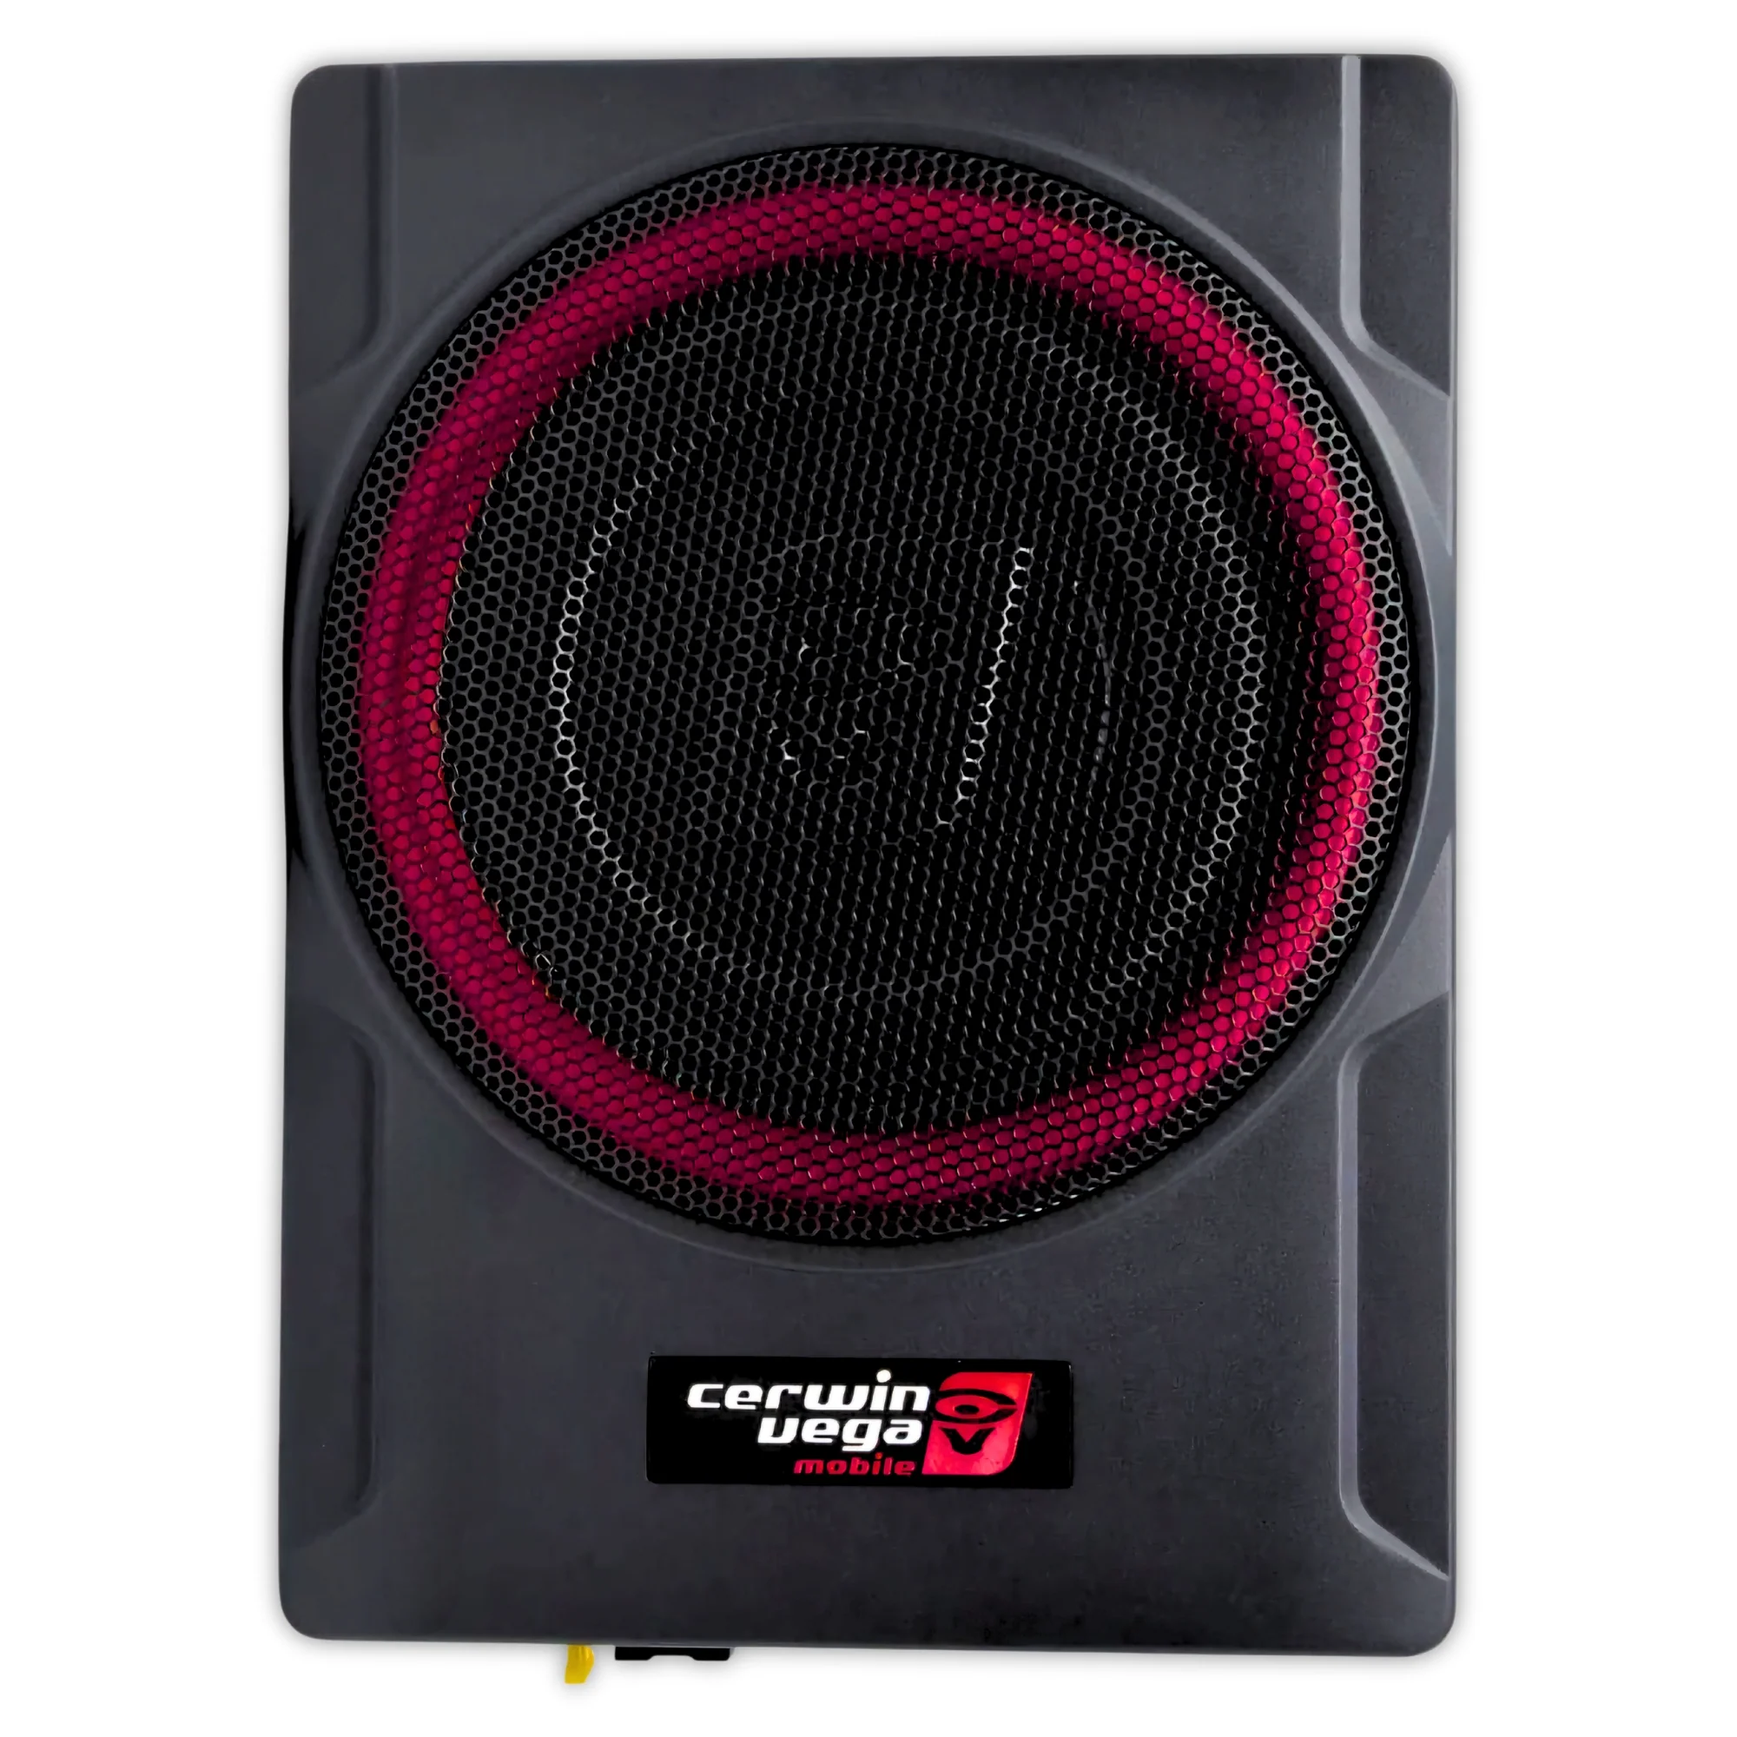
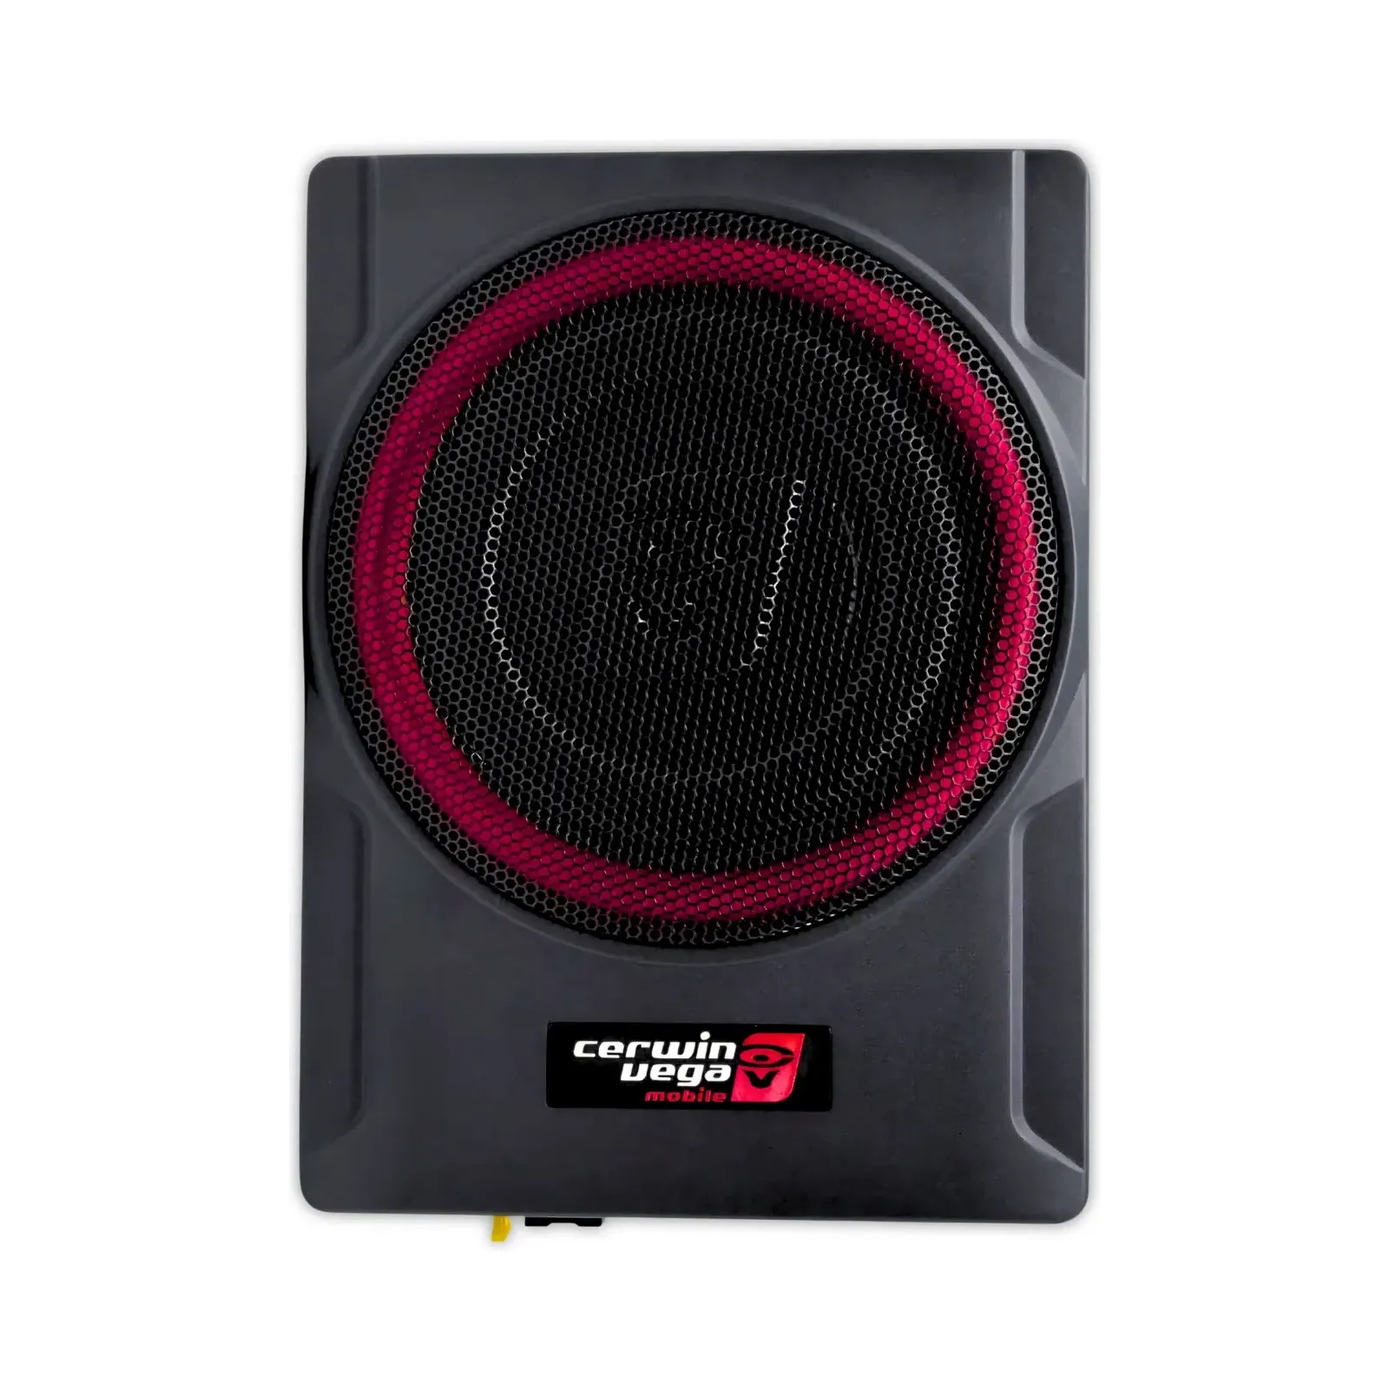
fix(catalogo): una sola escala de foto para bocinas y subwoofers, sin escala en componentes
La escala de la foto en la tarjeta tenia una curva por categoria: una bocina
de 6.5" (95 %) se veia mucho mas grande que un subwoofer de 6.5" (80 %). Ahora
es una sola curva, la del subwoofer extendida hacia abajo (tweeters 55-65 %,
4" 70 %, 5.25" 75 %, 6.5" 80 %, 8" 85 %, 10" 90 %, 12" 95 %, 15" 100 %). Los
componentes (componentes-2v y componentes-3v) no llevan escala: su foto
principal es el juego entero.

VR10_frontal ocupaba el 95 % del alto del cuadro (la regla es 80 %) y se veia
mas grande que la VPAS12: se reencuadro a 1600x1600 con el producto al 80 %,
se subio a Blob y se regenero el catalogo.

diff --git a/lib/catalog/escala-foto.ts b/lib/catalog/escala-foto.ts
@@ -5,40 +5,41 @@
 // tamaño en pantalla acompaña al real. 1 es «el tamaño actual» y es el techo:
 // nada se agranda.
 //
-// Es un dato derivado de `categoria` y `atributos.medida`; no vive en
-// catalog.json. El adaptador estático lo agrega a cada producto al leerlo
-// (`escalaFoto`), y de ahí llega a la tarjeta de los listados, de /buscar y del
-// selector de vehículos. La ficha y su galería NO la usan: ahí la foto va
-// entera.
+// Es UNA sola curva para las dos categorías: una bocina de 8" y un subwoofer
+// de 8" se dibujan igual de grandes. Antes cada categoría tenía la suya (la
+// bocina de 6.5" a 95 % y el subwoofer de 6.5" a 80 %), y un producto de
+// 6.5" se veía de dos tamaños según lo que fuera.
+//
+// Es un dato derivado de la categoría, `atributos.medida` y
+// `atributos.configuracion`; no vive en catalog.json. El adaptador estático lo
+// agrega a cada producto al leerlo (`escalaFoto`), y de ahí llega a la tarjeta
+// de los listados, de /buscar y del selector de vehículos. La ficha y su
+// galería NO la usan: ahí la foto va entera.
 
 // Pares [pulgadas, escala], de menor a mayor. Entre dos pares la escala se
 // interpola en línea recta; fuera de los extremos se queda en el del extremo.
-// Los pares son los valores que fijó el negocio, y los tamaños intermedios que
-// el negocio no nombró (3.5", 4.5", 6.75"…) caen entre los dos vecinos en vez
-// de saltar de un escalón al siguiente.
-type Tramo = readonly (readonly [number, number])[];
-
-const BOCINAS: Tramo = [
-  [1, 0.65], // tweeters y bocinas chicas: de 65 %...
-  [3.5, 0.75], // ...a 75 % justo antes de las de 4"
-  [4, 0.8], // 4" y 4x6"
-  [5.25, 0.85], // 5.25" y 5x7"
-  [6.5, 0.95], // 6.5" y 6x9"
-  [8, 1], // 8" y más
-];
-
-const SUBWOOFERS: Tramo = [
-  [6.5, 0.8],
+// Los tamaños que el negocio no nombró (3.5", 4.5", 6.75"…) caen entre los dos
+// vecinos en vez de saltar de un escalón al siguiente.
+const CURVA: readonly (readonly [number, number])[] = [
+  [1, 0.55], // tweeters y bocinas chicas: de 55 %...
+  [3.5, 0.65], // ...a 65 % justo antes de las de 4"
+  [4, 0.7], // 4" y 4x6"
+  [5.25, 0.75], // 5.25" y 5x7"
+  [6.5, 0.8], // 6.5" y 6x9"
   [8, 0.85],
   [10, 0.9],
   [12, 0.95],
-  [15, 1],
+  [15, 1], // 15" o más
 ];
 
-const TRAMOS: Readonly<Record<string, Tramo>> = {
-  Bocinas: BOCINAS,
-  Subwoofers: SUBWOOFERS,
-};
+// Las dos categorías que llevan escala. Cualquier otra dibuja la foto entera.
+const CATEGORIAS = ["Bocinas", "Subwoofers"];
+
+// Un componente (bocina de dos o tres vías con el crossover y el tweeter
+// aparte) se vende como juego, y su foto principal es el juego entero, que
+// ocupa casi todo el ancho del cuadro. Achicarla lo dejaría más chico que una
+// bocina sola de la misma medida, así que el juego no lleva escala.
+const CONFIGURACIONES_SIN_ESCALA = ["componentes-2v", "componentes-3v"];
 
 // Una ovalada se mide con la redonda de su clase, como la agrupó el negocio:
 // una 4x6" va con las de 4", una 5x7" con las de 5.25" y una 6x9" con las de
@@ -62,15 +63,15 @@ export function pulgadasEquivalentes(medida: string): number | undefined {
   return /mm$/.test(texto) ? n / 25.4 : n;
 }
 
-function interpolar(tramo: Tramo, pulgadas: number): number {
-  const primero = tramo[0];
-  const ultimo = tramo[tramo.length - 1];
+function interpolar(pulgadas: number): number {
+  const primero = CURVA[0];
+  const ultimo = CURVA[CURVA.length - 1];
   if (pulgadas <= primero[0]) return primero[1];
   if (pulgadas >= ultimo[0]) return ultimo[1];
-  for (let i = 1; i < tramo.length; i += 1) {
-    const [x1, y1] = tramo[i];
+  for (let i = 1; i < CURVA.length; i += 1) {
+    const [x1, y1] = CURVA[i];
     if (pulgadas <= x1) {
-      const [x0, y0] = tramo[i - 1];
+      const [x0, y0] = CURVA[i - 1];
       return y0 + ((y1 - y0) * (pulgadas - x0)) / (x1 - x0);
     }
   }
@@ -78,17 +79,20 @@ function interpolar(tramo: Tramo, pulgadas: number): number {
 }
 
 /**
- * La escala (entre 0.65 y 1) con que se dibuja la foto de la tarjeta, o
- * `undefined` si el producto no la lleva: otra categoría, o una medida que no
- * se puede leer. Sin valor, la tarjeta dibuja la foto al tamaño de siempre.
+ * La escala (entre 0.55 y 1) con que se dibuja la foto de la tarjeta, o
+ * `undefined` si el producto no la lleva: otra categoría, un componente, o una
+ * medida que no se puede leer. Sin valor, la tarjeta dibuja la foto al tamaño
+ * de siempre.
  */
-export function escalaFotoCatalogo(
-  categoria: string,
-  medida: string | undefined,
-): number | undefined {
-  const tramo = Object.hasOwn(TRAMOS, categoria) ? TRAMOS[categoria] : undefined;
-  if (!tramo || !medida) return undefined;
+export function escalaFotoCatalogo(producto: {
+  categoria: string;
+  medida?: string;
+  configuracion?: string;
+}): number | undefined {
+  const { categoria, medida, configuracion } = producto;
+  if (!CATEGORIAS.includes(categoria) || !medida) return undefined;
+  if (configuracion && CONFIGURACIONES_SIN_ESCALA.includes(configuracion)) return undefined;
   const pulgadas = pulgadasEquivalentes(medida);
   if (pulgadas === undefined) return undefined;
-  return Math.round(interpolar(tramo, pulgadas) * 1000) / 1000;
+  return Math.round(interpolar(pulgadas) * 1000) / 1000;
 }

diff --git a/lib/catalog/escala-foto.test.ts b/lib/catalog/escala-foto.test.ts
@@ -3,66 +3,82 @@ import { describe, it } from "node:test";
 
 import { escalaFotoCatalogo, pulgadasEquivalentes } from "./escala-foto.ts";
 
-describe("escalaFotoCatalogo — bocinas", () => {
-  const bocina = (medida: string) => escalaFotoCatalogo("Bocinas", medida);
+const bocina = (medida: string, configuracion?: string) =>
+  escalaFotoCatalogo({ categoria: "Bocinas", medida, configuracion });
+const sub = (medida: string) => escalaFotoCatalogo({ categoria: "Subwoofers", medida });
 
-  it("da los valores del negocio en cada medida", () => {
-    assert.equal(bocina('4"'), 0.8);
-    assert.equal(bocina('4x6"'), 0.8);
-    assert.equal(bocina('5.25"'), 0.85);
-    assert.equal(bocina('5x7"'), 0.85);
-    assert.equal(bocina('6.5"'), 0.95);
-    assert.equal(bocina('6x9"'), 0.95);
-    assert.equal(bocina('8"'), 1);
-  });
-
-  it('los tweeters y las menores de 4" van entre 65 % y 75 %, y crecen con la medida', () => {
-    assert.equal(bocina('3/4"'), 0.65);
-    assert.equal(bocina('7/8"'), 0.65);
-    assert.equal(bocina('1"'), 0.65);
-    assert.equal(bocina('3.5"'), 0.75);
-    const mm = bocina("40 mm");
-    const medias = [bocina('1.5"'), bocina('2.5"'), bocina('2.75"'), bocina("50 mm"), mm];
-    for (const escala of medias) {
-      assert.ok(escala !== undefined && escala >= 0.65 && escala <= 0.75, String(escala));
+describe("escalaFotoCatalogo — una sola curva", () => {
+  it("da el mismo valor a una bocina y a un subwoofer de la misma medida", () => {
+    for (const medida of ['6.5"', '8"', '10"', '12"']) {
+      assert.equal(bocina(medida), sub(medida), medida);
     }
-    assert.ok(bocina('2.5"')! < bocina('2.75"')!);
-    assert.ok(bocina('1.5"')! < bocina('2.5"')!);
   });
 
-  it('una medida entre dos del negocio queda entre sus escalas (6.75")', () => {
-    const escala = bocina('6.75"')!;
-    assert.ok(escala > 0.95 && escala < 1, String(escala));
-  });
-
-  it('nunca agranda: pasada la de 8" se queda en 1', () => {
-    assert.equal(bocina('10"'), 1);
-  });
-});
-
-describe("escalaFotoCatalogo — subwoofers", () => {
-  const sub = (medida: string) => escalaFotoCatalogo("Subwoofers", medida);
-
-  it("da los valores del negocio en cada medida", () => {
+  it("da los valores de cada medida", () => {
+    assert.equal(bocina('4"'), 0.7);
+    assert.equal(bocina('4x6"'), 0.7);
+    assert.equal(bocina('5.25"'), 0.75);
+    assert.equal(bocina('5x7"'), 0.75);
+    assert.equal(bocina('6.5"'), 0.8);
+    assert.equal(bocina('6x9"'), 0.8);
+    assert.equal(bocina('8"'), 0.85);
     assert.equal(sub('6.5"'), 0.8);
     assert.equal(sub('8"'), 0.85);
     assert.equal(sub('10"'), 0.9);
     assert.equal(sub('12"'), 0.95);
     assert.equal(sub('15"'), 1);
   });
+
+  it("crece con la medida", () => {
+    const medidas = ['1"', '2.5"', '4"', '5.25"', '6.5"', '8"', '10"', '12"', '15"'];
+    const escalas = medidas.map((m) => bocina(m)!);
+    for (let i = 1; i < escalas.length; i += 1) {
+      assert.ok(escalas[i] >= escalas[i - 1], `${medidas[i]} ${escalas[i]}`);
+    }
+  });
+
+  it('los tweeters y las menores de 4" van entre 55 % y 65 %', () => {
+    assert.equal(bocina('3/4"'), 0.55);
+    assert.equal(bocina('7/8"'), 0.55);
+    assert.equal(bocina('1"'), 0.55);
+    assert.equal(bocina('3.5"'), 0.65);
+    for (const medida of ['1.5"', '2.5"', '2.75"', "40 mm", "44.4 mm", "50 mm"]) {
+      const escala = bocina(medida)!;
+      assert.ok(escala >= 0.55 && escala <= 0.65, `${medida} ${escala}`);
+    }
+  });
+
+  it('una medida entre dos de la curva queda entre sus escalas (6.75")', () => {
+    const escala = bocina('6.75"')!;
+    assert.ok(escala > 0.8 && escala < 0.85, String(escala));
+  });
+
+  it('nunca agranda: pasada la de 15" se queda en 1', () => {
+    assert.equal(sub('18"'), 1);
+  });
 });
 
 describe("escalaFotoCatalogo — lo que no lleva escala", () => {
+  it("un componente, de dos o de tres vías", () => {
+    assert.equal(bocina('6.5"', "componentes-2v"), undefined);
+    assert.equal(bocina('6.5"', "componentes-3v"), undefined);
+  });
+
+  it("una bocina que no es componente sí", () => {
+    assert.equal(bocina('6.5"', "coaxial-2v"), 0.8);
+    assert.equal(bocina('1"', "tweeter"), 0.55);
+  });
+
   it("otras categorías", () => {
-    assert.equal(escalaFotoCatalogo("Amplificadores", '12"'), undefined);
-    assert.equal(escalaFotoCatalogo("Accesorios", undefined), undefined);
-    // Una categoría escrita como propiedad heredada no se toma por un tramo.
-    assert.equal(escalaFotoCatalogo("constructor", '12"'), undefined);
+    assert.equal(escalaFotoCatalogo({ categoria: "Amplificadores", medida: '12"' }), undefined);
+    assert.equal(escalaFotoCatalogo({ categoria: "Accesorios" }), undefined);
+    // Una categoría escrita como propiedad heredada no se toma por una de las dos.
+    assert.equal(escalaFotoCatalogo({ categoria: "constructor", medida: '12"' }), undefined);
   });
 
   it("una medida ausente o ilegible", () => {
-    assert.equal(escalaFotoCatalogo("Bocinas", undefined), undefined);
-    assert.equal(escalaFotoCatalogo("Bocinas", "ancha"), undefined);
+    assert.equal(escalaFotoCatalogo({ categoria: "Bocinas" }), undefined);
+    assert.equal(bocina("ancha"), undefined);
   });
 });
 

diff --git a/lib/catalog/adapters/static.ts b/lib/catalog/adapters/static.ts
@@ -55,7 +55,11 @@ async function leerJson(ruta: string): Promise<unknown> {
 // medida (lib/catalog/escala-foto.ts): no está en catalog.json.
 const cargarProductos = enCache(async () =>
   CatalogoSchema.parse(await leerJson(RUTA_CATALOG)).map((producto): Producto => {
-    const escalaFoto = escalaFotoCatalogo(producto.categoria, producto.atributos?.medida);
+    const escalaFoto = escalaFotoCatalogo({
+      categoria: producto.categoria,
+      medida: producto.atributos?.medida,
+      configuracion: producto.atributos?.configuracion,
+    });
     return escalaFoto === undefined ? producto : { ...producto, escalaFoto };
   }),
 );

diff --git a/CLAUDE.md b/CLAUDE.md
@@ -307,7 +307,7 @@ Las ocho categorías del nav son: Bocinas, Subwoofers, Amplificadores, Receptore
   - **Categoría y rangos son filtros, no texto** (`interpretar`, `lib/busqueda/busqueda.ts`). «Categoría» en `/buscar` es el USO del libro (carro, marino, motorsports), no las píldoras de categoría del sitio: palabras como «marino», «lancha», «utv» o «carro» (`USO_PALABRAS`, `lib/busqueda/sinonimos.ts`) filtran por el dato `uso` —un producto marino cuyo nombre no lo diga también aparece—, y un producto sin `uso` cuenta como carro. Un selector visible, «Categoría», hace lo mismo desde la URL (`?uso=marino`); si la consulta ya la nombra, el selector la muestra fija. Las comparaciones con número también filtran: «menos de Q 1,000», «hasta 3000», «más de 500 W», «de 8 a 10 pulgadas», «más de 4 canales». El rango se entiende también sin «de/entre» al frente cuando trae unidad o «Q» —«subwoofer 8 a 10 pulgadas», «500 a 1000 quetzales», «Q500-Q1000»—; con «y» sin «entre» no («8 y 10 pulgadas» pueden ser dos productos), ni sin unidad ni «Q» («500-1000»). Antes caía a la búsqueda *cercana* y avisaba «Ninguno es de 8"» aunque hubiera subwoofers de 8". Sin unidad ni «Q», un número es un precio solo de Q 50 para arriba, salvo que la consulta hable de potencia; «menos/hasta» incluyen o no el número según la palabra. Un producto sin el dato que se compara no cumple. Todo filtro que salió de lo escrito se dice en pantalla («Filtros de tu búsqueda: …»). Los números viajan ya sacados (`numerosDeAtributos`: la mayor potencia RMS, la medida en pulgadas, los canales), no `atributos` entero. La potencia en puente se busca con «puente».
 - **Pie:** borde superior y tres grupos **apilados y centrados** en todos los anchos: logo pequeño, enlaces legales, y la línea de contacto en mono con el envío debajo. El handoff los repartía en una fila (logo a la izquierda, contacto a la derecha); se cambió a pedido del negocio el 29 de septiembre de 2026.
 - **Tarjeta de producto:** foto cuadrada con 12px de margen (el handoff dibujó 200px de alto; cambiado a pedido del negocio en octubre de 2026 para no recortar las fotos y caber seis por fila), etiqueta mono con categoría o marca, nombre 15px/600 y especificación 13px gris. **Sin precio ni cuota**: se ven en la ficha y en el carrito.
-- **La foto de una bocina o un subwoofer va a escala en la tarjeta** (decisión del negocio, noviembre de 2026): el cuadrado no cambia, pero la foto se achica desde el centro según la medida, para que una bocina de 4" no se vea del tamaño de un subwoofer de 15". 1 es el tamaño de siempre y es el techo. Bocinas: tweeters y menores de 4" de 65 % a 75 % según la medida (1" o menos, 65 %; 3.5", 75 %), 4" y 4x6" 80 %, 5.25" y 5x7" 85 %, 6.5" y 6x9" 95 %, 8" o más 100 %. Subwoofers: 6.5" 80 %, 8" 85 %, 10" 90 %, 12" 95 %, 15" 100 %. Una medida que el negocio no nombró (6.75", 4.5") se interpola entre sus vecinas. Sale de `escalaFotoCatalogo` (`lib/catalog/escala-foto.ts`, con test), que usa la categoría y `atributos.medida`; el adaptador estático la agrega a cada producto como `escalaFoto` —no está en `catalog.json`—, y `tarjetasBuscables` y el selector de vehículos la copian porque no mandan `atributos`. La leen la tarjeta de los listados, de `/buscar` y de «Por vehículo» (`ProductCard` → `ProductImage`, prop `escala`). **La ficha, su galería, el carrito y el chat NO la usan**: ahí la foto va entera. Otras categorías no llevan escala. Cambiar un porcentaje es cambiar los tramos de ese archivo y su test.
+- **La foto de una bocina o un subwoofer va a escala en la tarjeta** (decisión del negocio, noviembre de 2026): el cuadrado no cambia, pero la foto se achica desde el centro según la medida, para que una bocina de 4" no se vea del tamaño de un subwoofer de 15". 1 es el tamaño de siempre y es el techo. **Es UNA sola curva para las dos categorías** —una bocina de 8" y un subwoofer de 8" se ven igual de grandes—: 1" o menos 55 %, 3.5" 65 %, 4" y 4x6" 70 %, 5.25" y 5x7" 75 %, 6.5" y 6x9" 80 %, 8" 85 %, 10" 90 %, 12" 95 %, 15" o más 100 %; entre dos medidas se interpola (6.75", 4.5", un tweeter de 40 mm). Antes cada categoría tenía la suya y una bocina de 6.5" (95 %) se veía mucho más grande que un subwoofer de 6.5" (80 %). **Los componentes no llevan escala** (`atributos.configuracion` `componentes-2v` o `componentes-3v`): su foto principal es el juego entero y achicarla lo dejaba más chico que una bocina sola. Sale de `escalaFotoCatalogo` (`lib/catalog/escala-foto.ts`, con test); el adaptador estático la agrega a cada producto como `escalaFoto` —no está en `catalog.json`—, y `tarjetasBuscables` y el selector de vehículos la copian porque no mandan `atributos`. La leen la tarjeta de los listados, de `/buscar` y de «Por vehículo» (`ProductCard` → `ProductImage`, prop `escala`). **La ficha, su galería, el carrito y el chat NO la usan**: ahí la foto va entera. Otras categorías no llevan escala. **La escala asume que las fotos siguen la regla de encuadre** (el producto al 80 % del lado más largo, § Pipeline de fotos): una foto que lo llena más se ve más grande que sus pares a la misma medida (la VR10 estaba al 95 % y se veía más grande que la VPAS12, de 12"; se reencuadró en noviembre de 2026). Cambiar un porcentaje es cambiar la curva de ese archivo y su test.
 - **Rejilla de tarjetas:** 1 columna en móvil, 2 desde `sm`, 4 desde `lg` y **6 desde `xl` (1280px)**, donde cada tarjeta mide ~181px. A 1024px seis bajarían de 140px y el nombre se partiría en cinco o seis líneas. La sección Destacados de la portada pide 6 productos para llenar la fila. `PAGE_SIZE_DEFECTO` sigue en 24, que es múltiplo de 6: cada página llena sus filas. (Con 4 columnas también.)
 - **Ficha de producto, layout** (`app/producto/[slug]/page.tsx`, `components/media/ProductGallery.tsx`): en escritorio (`lg:`) es una rejilla de dos columnas y dos filas, centrada con ancho máximo de 1424px y márgenes de 48px. Columna izquierda de 600px: foto principal cuadrada en la fila 1 y, en la fila 2, las miniaturas cuadradas en una fila. Columna derecha: el panel de información (breadcrumbs, nombre, precio, datos, botones) en la fila 1 y el bloque de envío en la fila 2. **La fila 2 toma el alto del bloque de envío**, así que el borde inferior de la foto coincide con la línea superior de ese bloque y el de las miniaturas con la última línea («Aplican restricciones…»); las miniaturas son cuadradas con ese alto. En móvil todo se apila: foto, miniaturas en una fila de cuatro, información. Medido: coincide a 1600px. A 1280px el nombre ocupa tres líneas en vez de dos y la fila 1 crece unos 19px, así que el borde de la foto queda 19px sobre la línea de envío (las miniaturas y la última línea siguen alineadas). La sección negra de «Ficha técnica» usa el mismo ancho máximo.
 - **Resumen de pedido** (carrito): tarjeta con borde, subtotal, envío, total en 28px, cuota, botón negro a todo el ancho, condiciones en mono al final.
